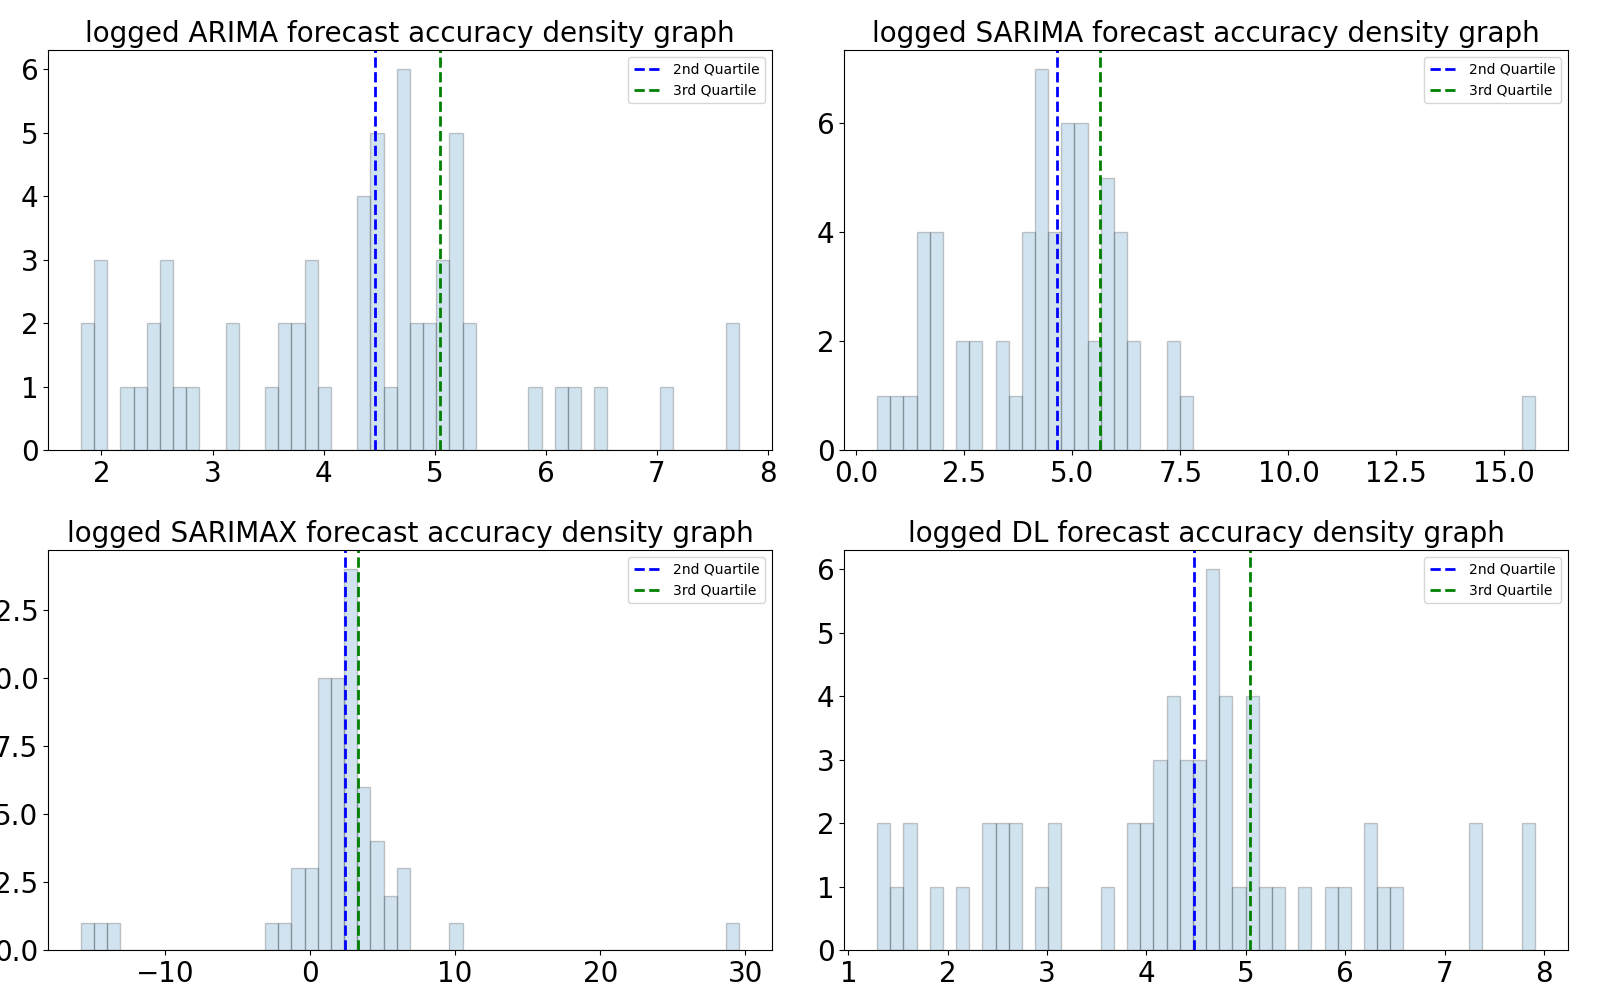
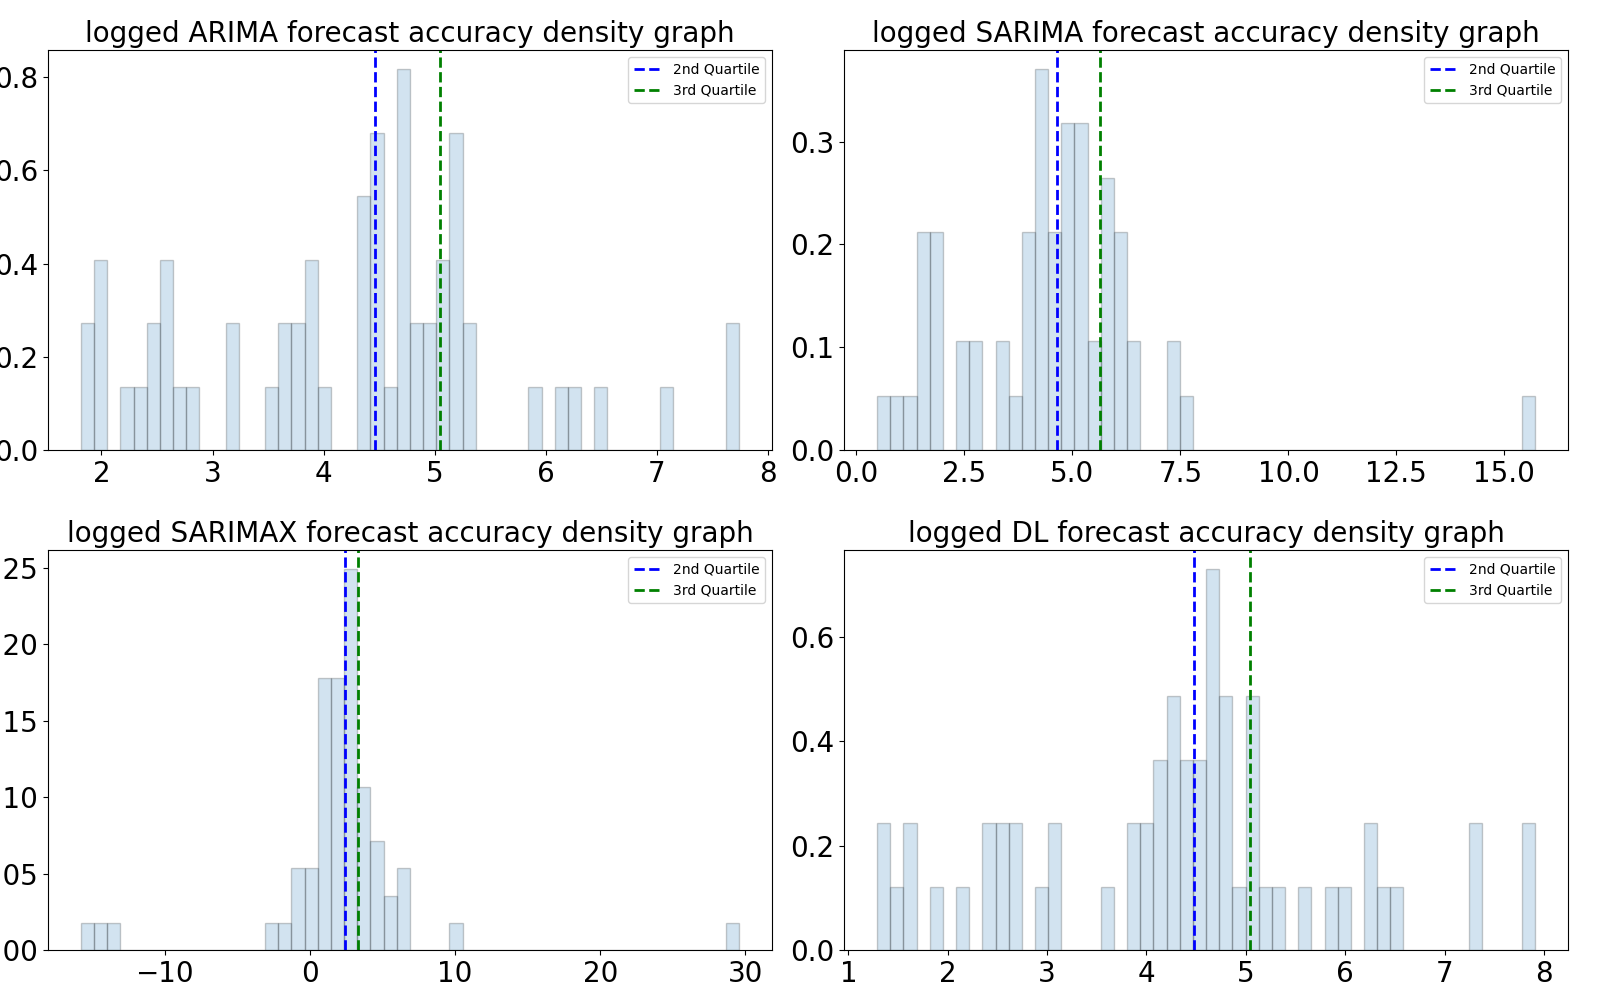
volatility measurment

diff --git a/src/data_visualization.py b/src/data_visualization.py
@@ -4,7 +4,7 @@ import matplotlib.pyplot as plt
 import variables as var
 from os import listdir
 from os.path import isfile, join
-from data_reader import organize_table, organize_rebasement
+from data_reader import organize_table, organize_rebasement, organize_volatility
 from statsmodels.tsa.seasonal import seasonal_decompose
 import ast
 from auxiliary import rmspe_calculation
@@ -248,7 +248,7 @@ def distribution_graph_logged():
 
     _, axes = plt.subplots(2, 2, figsize=(16, 10))
 
-    axes[0, 0].hist(data_a, bins=50, edgecolor="black", alpha=0.2)
+    axes[0, 0].hist(data_a, bins=50, edgecolor="black", alpha=0.2, density=True)
     axes[0, 0].axvline(
         data_a[second_quartile],
         color="blue",
@@ -266,7 +266,7 @@ def distribution_graph_logged():
     axes[0, 0].set_title("logged ARIMA forecast accuracy density graph", fontsize=20)
     axes[0, 0].legend()
 
-    axes[0, 1].hist(data_s, bins=50, edgecolor="black", alpha=0.2)
+    axes[0, 1].hist(data_s, bins=50, edgecolor="black", alpha=0.2, density=True)
     axes[0, 1].axvline(
         data_s[second_quartile],
         color="blue",
@@ -284,7 +284,7 @@ def distribution_graph_logged():
     axes[0, 1].set_title("logged SARIMA forecast accuracy density graph", fontsize=20)
     axes[0, 1].legend()
 
-    axes[1, 0].hist(data_sx, bins=50, edgecolor="black", alpha=0.2)
+    axes[1, 0].hist(data_sx, bins=50, edgecolor="black", alpha=0.2, density=True)
     axes[1, 0].axvline(
         data_sx[second_quartile],
         color="blue",
@@ -302,7 +302,7 @@ def distribution_graph_logged():
     axes[1, 0].set_title("logged SARIMAX forecast accuracy density graph", fontsize=20)
     axes[1, 0].legend()
 
-    axes[1, 1].hist(data_d, bins=50, edgecolor="black", alpha=0.2)
+    axes[1, 1].hist(data_d, bins=50, edgecolor="black", alpha=0.2, density=True)
     axes[1, 1].axvline(
         data_d[second_quartile],
         color="blue",
@@ -317,6 +317,11 @@ def distribution_graph_logged():
         linewidth=2,
         label="3rd Quartile",
     )
+    print(data_sx[second_quartile], data_sx[third_quartile])
+    print(data_d[second_quartile], data_d[third_quartile])
+    print(data_a[second_quartile], data_a[third_quartile])
+    print(data_s[second_quartile], data_s[third_quartile])
+
     axes[1, 1].set_title("logged DL forecast accuracy density graph", fontsize=20)
     axes[1, 1].legend()
 
@@ -331,7 +336,18 @@ def distribution_graph_logged():
     plt.show()
 
 
-distribution_graph_logged()
+def visualize_volatility(countries, energies):
+    for i in range(len(countries)):
+        x = organize_volatility(countries[i], energies[i])
+        plt.plot(x["CV"], label=f"volatility {countries[i]} {energies[i]}")
+    plt.title("Coefficient Variance (Volatility) Visualization")
+    plt.legend()
+    plt.show()
+
+
+visualize_volatility(
+    countries=["France", "France", "Netherlands"], energies=["demand", "solar", "hydro"]
+)
 
 
 def iterative_forecast_visualization(energy, country, models):

diff --git a/src/data_reader.py b/src/data_reader.py
@@ -2,6 +2,7 @@ import pandas as pd
 import numpy as np
 import os
 from variables import DATE, data_dir, rebasement
+import matplotlib.pyplot as plt
 
 
 def clean_filename(filename):
@@ -65,6 +66,11 @@ def organize_rebasement(country, energy, date):
     return new_df[new_df.index <= date]
 
 
-pd.set_option("display.max_rows", None)  # Show all rows
-pd.set_option("display.max_columns", None)  # Show all columns
-pd.set_option("display.max_colwidth", None)
+def organize_volatility(country, energy):
+    data = organize_table(country)
+    df = data[[energy]].copy()
+    window = 3  # Rolling window size in months
+    df["Rolling_Std"] = df[energy].rolling(window).std()
+    df["Rolling_Mean"] = df[energy].rolling(window).mean()
+    df["CV"] = df["Rolling_Std"] / df["Rolling_Mean"]
+    return df
